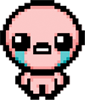
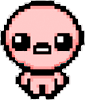
smooth

diff --git a/sfml test/main.cpp b/sfml test/main.cpp
@@ -38,7 +38,7 @@ int main()
 	std::list<Block> blocks;
 	fog_of_war.setFillColor(sf::Color::Black);
 	levelFloor.move(sf::Vector2f(2500.f,2500.f));
-	window.setVerticalSyncEnabled(true);
+	//window.setVerticalSyncEnabled(true);
 	/*blocks.push_back(Block(static_cast<block_types>(0), "imagez/floor1.png", true, true));
 	blocks.push_back(Block(static_cast<block_types>(1), "imagez/wall1.png", true, false));
 
@@ -91,6 +91,7 @@ int main()
 	}
 
 	Block::allBlocks[block_types::floor1].setTextureReapeted(true);
+	Block::allBlocks[block_types::floor1].setTextureSmooth(true);
 	levelFloor.setTexture(&Block::allBlocks[block_types::floor1].getTexture());
 	levelFloor.setTextureRect(sf::IntRect(levelFloor.getPosition().x,levelFloor.getPosition().y, levelFloor.getSize().x,levelFloor.getSize().y));
 
@@ -106,7 +107,7 @@ int main()
 	sf::Clock dt_clock;
 
 	Character player;
-	player.setSpeed(400.f);
+	player.setSpeed(200.f);
 
 	std::string path = "imagez/hero.png";
 
@@ -133,7 +134,7 @@ int main()
 			switch (ev.type) {
 			case Event::KeyPressed:
 			{
-				if (ev.key.code == Keyboard::Escape) {
+				if (ev.key.code==Keyboard::Escape) {
 					window.close();
 				}
 				break;

diff --git a/sfml test/Block.cpp b/sfml test/Block.cpp
@@ -57,6 +57,10 @@ void Block::setTextureReapeted(bool repeat) {
 	this->texture.setRepeated(repeat);
 }
 
+void Block::setTextureSmooth(bool smooth) {
+	this->texture.setSmooth(smooth);
+}
+
 block_types& Block::getBlockName() {
 	return this->blockName;
 }

diff --git a/sfml test/Block.h b/sfml test/Block.h
@@ -37,6 +37,7 @@ public:
 	sf::Texture& getTexture();
 	void setVisible(bool);
 	void setPassable(bool);
+	void setTextureSmooth(bool);
 	void setPosition(sf::Vector2f pos);
 	virtual bool isVisible();
 	virtual bool isPassable();
